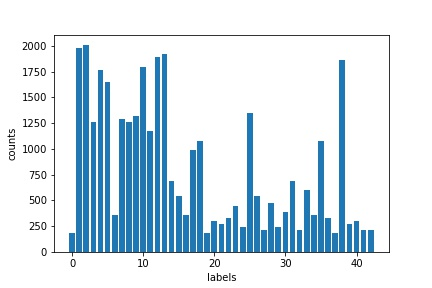
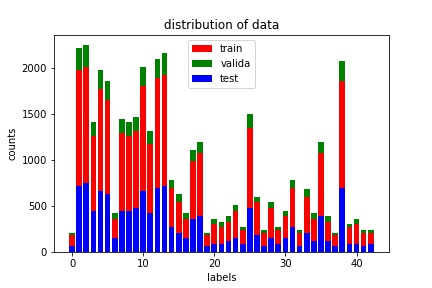
modify data explore

diff --git a/Traffic_Sign_Classifier.html b/Traffic_Sign_Classifier.html
@@ -16587,14 +16587,22 @@ Number of classes = 43
 </div>
 <div class="cell border-box-sizing code_cell rendered">
 <div class="input">
-<div class="prompt input_prompt">In&nbsp;[36]:</div>
+<div class="prompt input_prompt">In&nbsp;[105]:</div>
 <div class="inner_cell">
     <div class="input_area">
 <div class=" highlight hl-ipython3"><pre><span></span><span class="c1"># plot count of each label</span>
-<span class="n">_</span><span class="p">,</span> <span class="n">index</span><span class="p">,</span> <span class="n">counts</span> <span class="o">=</span> <span class="n">np</span><span class="o">.</span><span class="n">unique</span><span class="p">(</span><span class="n">y_train</span><span class="p">,</span> <span class="n">return_index</span><span class="o">=</span><span class="kc">True</span><span class="p">,</span> <span class="n">return_counts</span><span class="o">=</span><span class="kc">True</span><span class="p">)</span>
-<span class="n">image</span> <span class="o">=</span> <span class="n">plt</span><span class="o">.</span><span class="n">bar</span><span class="p">(</span><span class="n">y_train</span><span class="p">[</span><span class="n">index</span><span class="p">],</span> <span class="n">counts</span><span class="p">)</span>
+<span class="n">_</span><span class="p">,</span> <span class="n">index_train</span><span class="p">,</span> <span class="n">counts_train</span> <span class="o">=</span> <span class="n">np</span><span class="o">.</span><span class="n">unique</span><span class="p">(</span><span class="n">y_train</span><span class="p">,</span> <span class="n">return_index</span><span class="o">=</span><span class="kc">True</span><span class="p">,</span> <span class="n">return_counts</span><span class="o">=</span><span class="kc">True</span><span class="p">)</span>
+<span class="n">_</span><span class="p">,</span> <span class="n">index_valid</span><span class="p">,</span> <span class="n">counts_valid</span> <span class="o">=</span> <span class="n">np</span><span class="o">.</span><span class="n">unique</span><span class="p">(</span><span class="n">y_valid</span><span class="p">,</span> <span class="n">return_index</span><span class="o">=</span><span class="kc">True</span><span class="p">,</span> <span class="n">return_counts</span><span class="o">=</span><span class="kc">True</span><span class="p">)</span>
+<span class="n">_</span><span class="p">,</span> <span class="n">index_test</span><span class="p">,</span> <span class="n">counts_test</span> <span class="o">=</span> <span class="n">np</span><span class="o">.</span><span class="n">unique</span><span class="p">(</span><span class="n">y_test</span><span class="p">,</span> <span class="n">return_index</span><span class="o">=</span><span class="kc">True</span><span class="p">,</span> <span class="n">return_counts</span><span class="o">=</span><span class="kc">True</span><span class="p">)</span>
+
+<span class="n">plt</span><span class="o">.</span><span class="n">bar</span><span class="p">(</span><span class="n">y_train</span><span class="p">[</span><span class="n">index_train</span><span class="p">],</span> <span class="n">counts_train</span><span class="p">,</span> <span class="n">label</span><span class="o">=</span><span class="s1">&#39;train&#39;</span><span class="p">,</span>  <span class="n">color</span><span class="o">=</span><span class="s1">&#39;r&#39;</span><span class="p">)</span>
+<span class="n">plt</span><span class="o">.</span><span class="n">bar</span><span class="p">(</span><span class="n">y_valid</span><span class="p">[</span><span class="n">index_valid</span><span class="p">],</span> <span class="n">counts_valid</span><span class="p">,</span> <span class="n">label</span><span class="o">=</span><span class="s1">&#39;valida&#39;</span><span class="p">,</span> <span class="n">bottom</span><span class="o">=</span><span class="n">counts_train</span><span class="p">,</span> <span class="n">color</span><span class="o">=</span><span class="s1">&#39;g&#39;</span><span class="p">)</span>
+<span class="n">plt</span><span class="o">.</span><span class="n">bar</span><span class="p">(</span><span class="n">y_test</span><span class="p">[</span><span class="n">index_test</span><span class="p">],</span> <span class="n">counts_test</span><span class="p">,</span> <span class="n">label</span><span class="o">=</span><span class="s1">&#39;test&#39;</span><span class="p">,</span> <span class="n">color</span><span class="o">=</span><span class="s1">&#39;b&#39;</span><span class="p">)</span>
 <span class="n">plt</span><span class="o">.</span><span class="n">xlabel</span><span class="p">(</span><span class="s2">&quot;labels&quot;</span><span class="p">)</span>
 <span class="n">plt</span><span class="o">.</span><span class="n">ylabel</span><span class="p">(</span><span class="s2">&quot;counts&quot;</span><span class="p">)</span>
+<span class="n">plt</span><span class="o">.</span><span class="n">legend</span><span class="p">()</span>
+<span class="n">plt</span><span class="o">.</span><span class="n">title</span><span class="p">(</span><span class="s1">&#39;distribution of data&#39;</span><span class="p">)</span>
+<span class="n">plt</span><span class="o">.</span><span class="n">show</span>
 <span class="n">plt</span><span class="o">.</span><span class="n">savefig</span><span class="p">(</span><span class="s2">&quot;label_counts.jpg&quot;</span><span class="p">)</span>
 </pre></div>
 
@@ -16614,7 +16622,7 @@ Number of classes = 43
 
 
 <div class="output_png output_subarea ">
[2 lines of base64/hex data omitted]
 "
 >
 </div>

diff --git a/writeup.md b/writeup.md
@@ -26,10 +26,9 @@ The goals / steps of this project are the following:
 
 ### Data Set Summary & Exploration
 
-#### 1. Provide a basic summary of the data set. In the code, the analysis should be done using python, numpy and/or pandas methods rather than hardcoding results manually.
+#### 1. Provide a basic summary of the data set.
 
-I used the pandas library to calculate summary statistics of the traffic
-signs data set:
+I used the numpy library to calculate summary statistics of the traffic signs data set:
 
 * The size of training set is 34799
 * The size of the validation set is 4410
@@ -47,9 +46,9 @@ Here is an exploratory visualization of the data set. It is a bar chart showing 
 
 #### 1.  Preprocess the image data.
 
-- shuffle training data
-- grayscaling
-- normalization
+- Shuffle training data:  this method can make sure get training data randomly. If the data in one batch is the same label, then the weight update toward one direction may become too large. It is more like stochastic rather than mini-batch 
+- Gray scaling: gray scale image is easier to recognize if the color does not have significant influence. It can help getting a decent accuracy quickly(it serve as a layer with fixed weight), but may lose the information of color and may get stuck when accuracy is high enough.
+- Normalization: normalization can make weight update more efficient
 
 
 #### 2. Model architecture 
